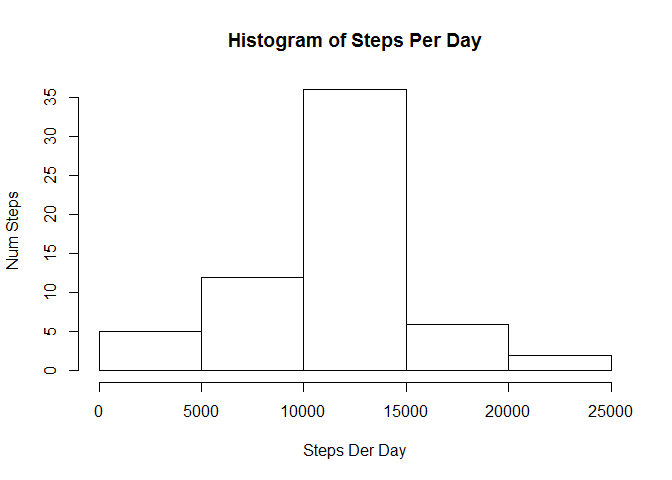
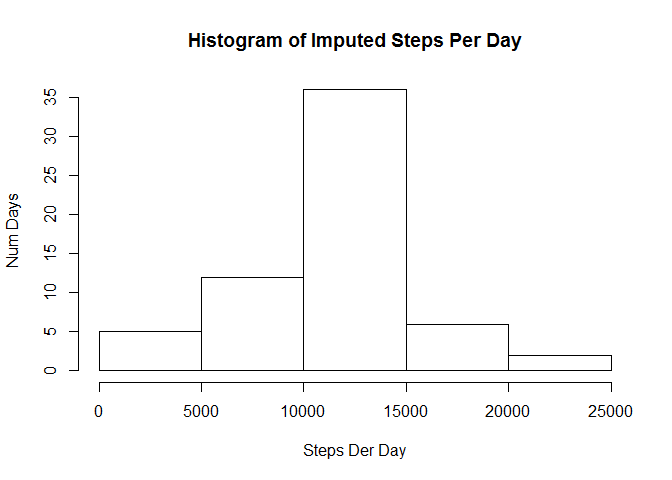
Updating orientation of last panel plot

Changed region(s): [[0.2812, 0.0625, 0.7812, 0.125], [0.0, 0.4062, 0.0312, 0.5625]]

diff --git a/PA1_template.html b/PA1_template.html
@@ -93,8 +93,8 @@ img {
 </div>
 <div id="make-a-histogram-of-the-total-number-of-steps-taken-each-day" class="section level3">
 <h3>2. Make a histogram of the total number of steps taken each day</h3>
-<pre class="r"><code>hist(activityByDay$x, xlab=&quot;Steps Der Day&quot;, main=&quot;Histogram of Steps Per Day&quot;, ylab=&quot;Num Steps&quot;)</code></pre>
[1 lines of base64/hex data omitted]
+<pre class="r"><code>hist(activityByDay$x, xlab=&quot;Steps Der Day&quot;, main=&quot;Histogram of Steps Per Day&quot;, ylab=&quot;Num of Days&quot;)</code></pre>
[1 lines of base64/hex data omitted]
 </div>
 <div id="calculate-and-report-the-mean-and-median-of-the-total-number-of-steps-taken-per-day" class="section level3">
 <h3>3. Calculate and report the mean and median of the total number of steps taken per day</h3>
@@ -144,8 +144,8 @@ for (i in missing){
 <div id="make-a-histogram-of-the-total-number-of-steps-taken-each-day-and-calculate-and-report-the-mean-and-median-total-number-of-steps-taken-per-day.-do-these-values-differ-from-the-estimates-from-the-first-part-of-the-assignment" class="section level3">
 <h3>3. Make a histogram of the total number of steps taken each day and Calculate and report the mean and median total number of steps taken per day. Do these values differ from the estimates from the first part of the assignment?</h3>
 <pre class="r"><code>imputedByDay &lt;- aggregate(imputedDataSet[,c(&quot;steps&quot;)],by=list(imputedDataSet$date),&quot;sum&quot;)
-hist(imputedByDay$x, xlab=&quot;Steps Der Day&quot;, main=&quot;Histogram of Steps Per Day&quot;, ylab=&quot;Num Steps&quot;)</code></pre>
[1 lines of base64/hex data omitted]
+hist(imputedByDay$x, xlab=&quot;Steps Der Day&quot;, main=&quot;Histogram of Imputed Steps Per Day&quot;, ylab=&quot;Num Days&quot;)</code></pre>
[1 lines of base64/hex data omitted]
 <p>The mean of the imputed data is:</p>
 <pre class="r"><code>mean(imputedByDay$x)</code></pre>
 <pre><code>## [1] 10766.19</code></pre>

diff --git a/PA1_template.md b/PA1_template.md
@@ -39,7 +39,7 @@ activityByDay <- aggregate(activityClean[,c("steps")],by=list(activityClean$date
 ###2. Make a histogram of the total number of steps taken each day
 
 ```r
-hist(activityByDay$x, xlab="Steps Der Day", main="Histogram of Steps Per Day", ylab="Num Steps")
+hist(activityByDay$x, xlab="Steps Der Day", main="Histogram of Steps Per Day", ylab="Num of Days")
 ```
 
 ![](PA1_template_files/figure-html/unnamed-chunk-6-1.png) 
@@ -122,7 +122,7 @@ for (i in missing){
 
 ```r
 imputedByDay <- aggregate(imputedDataSet[,c("steps")],by=list(imputedDataSet$date),"sum")
-hist(imputedByDay$x, xlab="Steps Der Day", main="Histogram of Steps Per Day", ylab="Num Steps")
+hist(imputedByDay$x, xlab="Steps Der Day", main="Histogram of Imputed Steps Per Day", ylab="Num Days")
 ```
 
 ![](PA1_template_files/figure-html/unnamed-chunk-13-1.png) 
